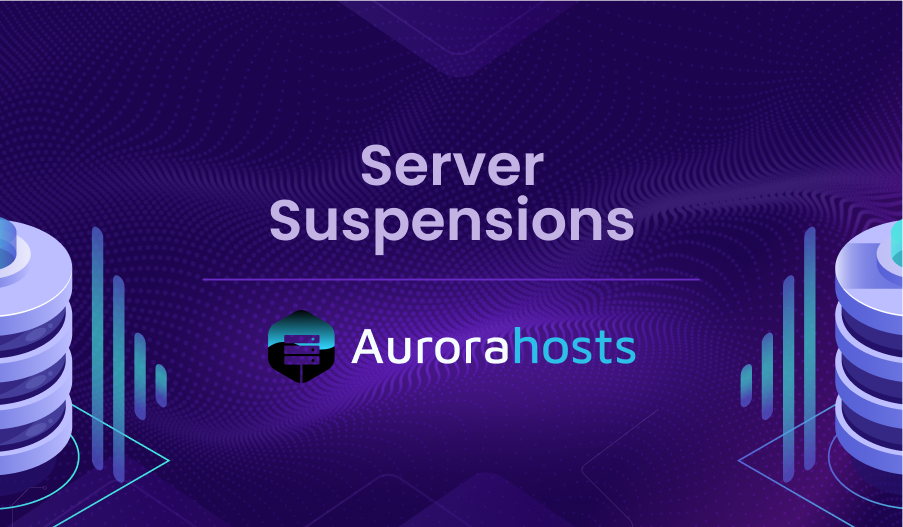
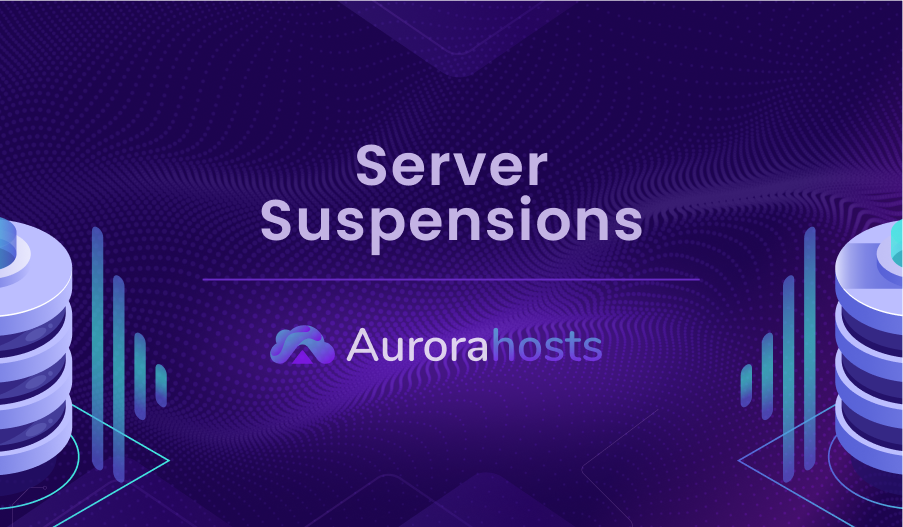
Replaced all emb images
Replaced all images with the new logo

Changed region(s): [[0.2791, 0.2732, 0.7132, 0.4858], [0.2791, 0.5769, 0.7132, 0.7287]]

diff --git a/docusaurus.config.js b/docusaurus.config.js
@@ -21,7 +21,7 @@ const config = {
         docs: {
           routeBasePath: "/",
           showLastUpdateTime: true,
-          showLastUpdateAuthor: false,
+          showLastUpdateAuthor: true,
           
           sidebarPath: require.resolve('./sidebars.js'),
           editUrl: 'https://github.com/AuroraHosts/public-docs/',
